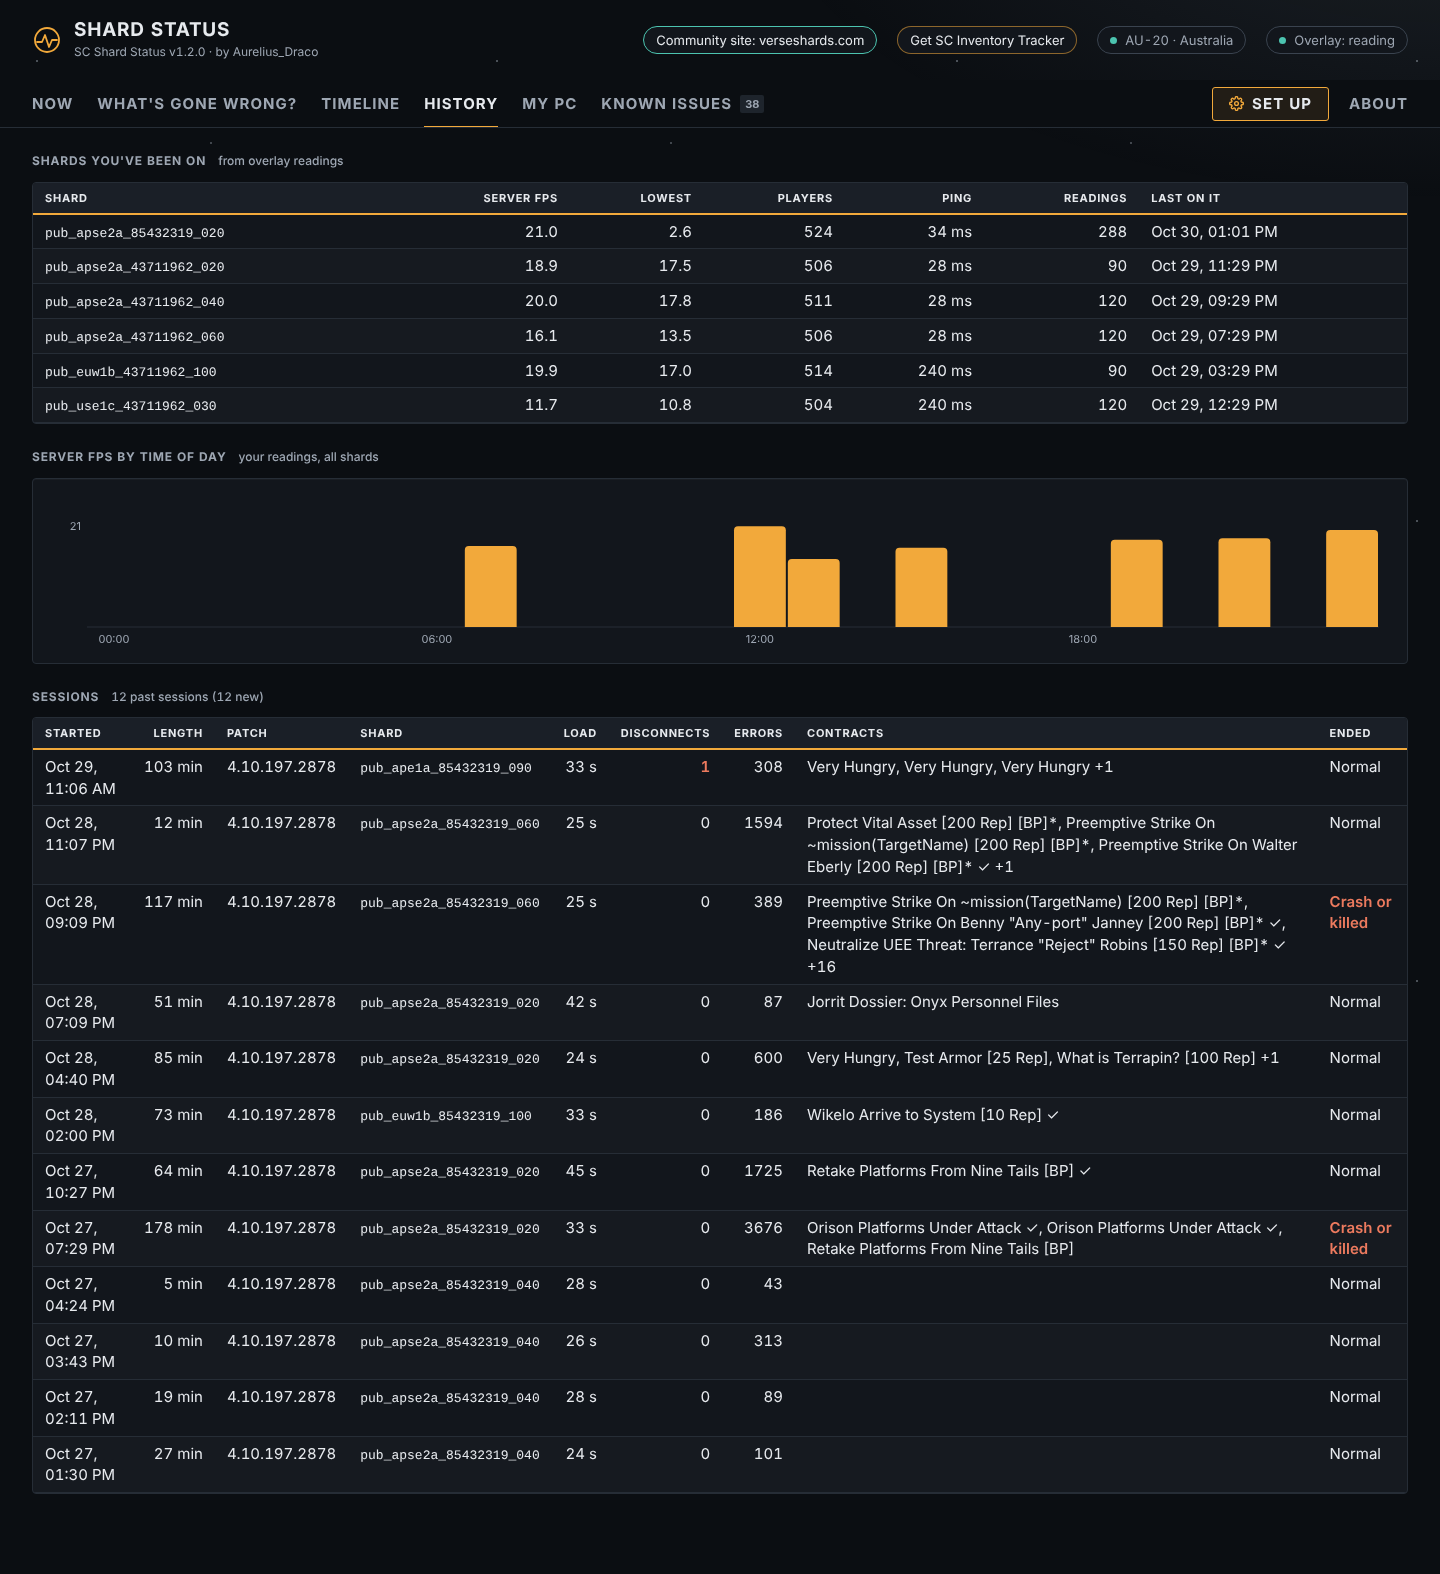
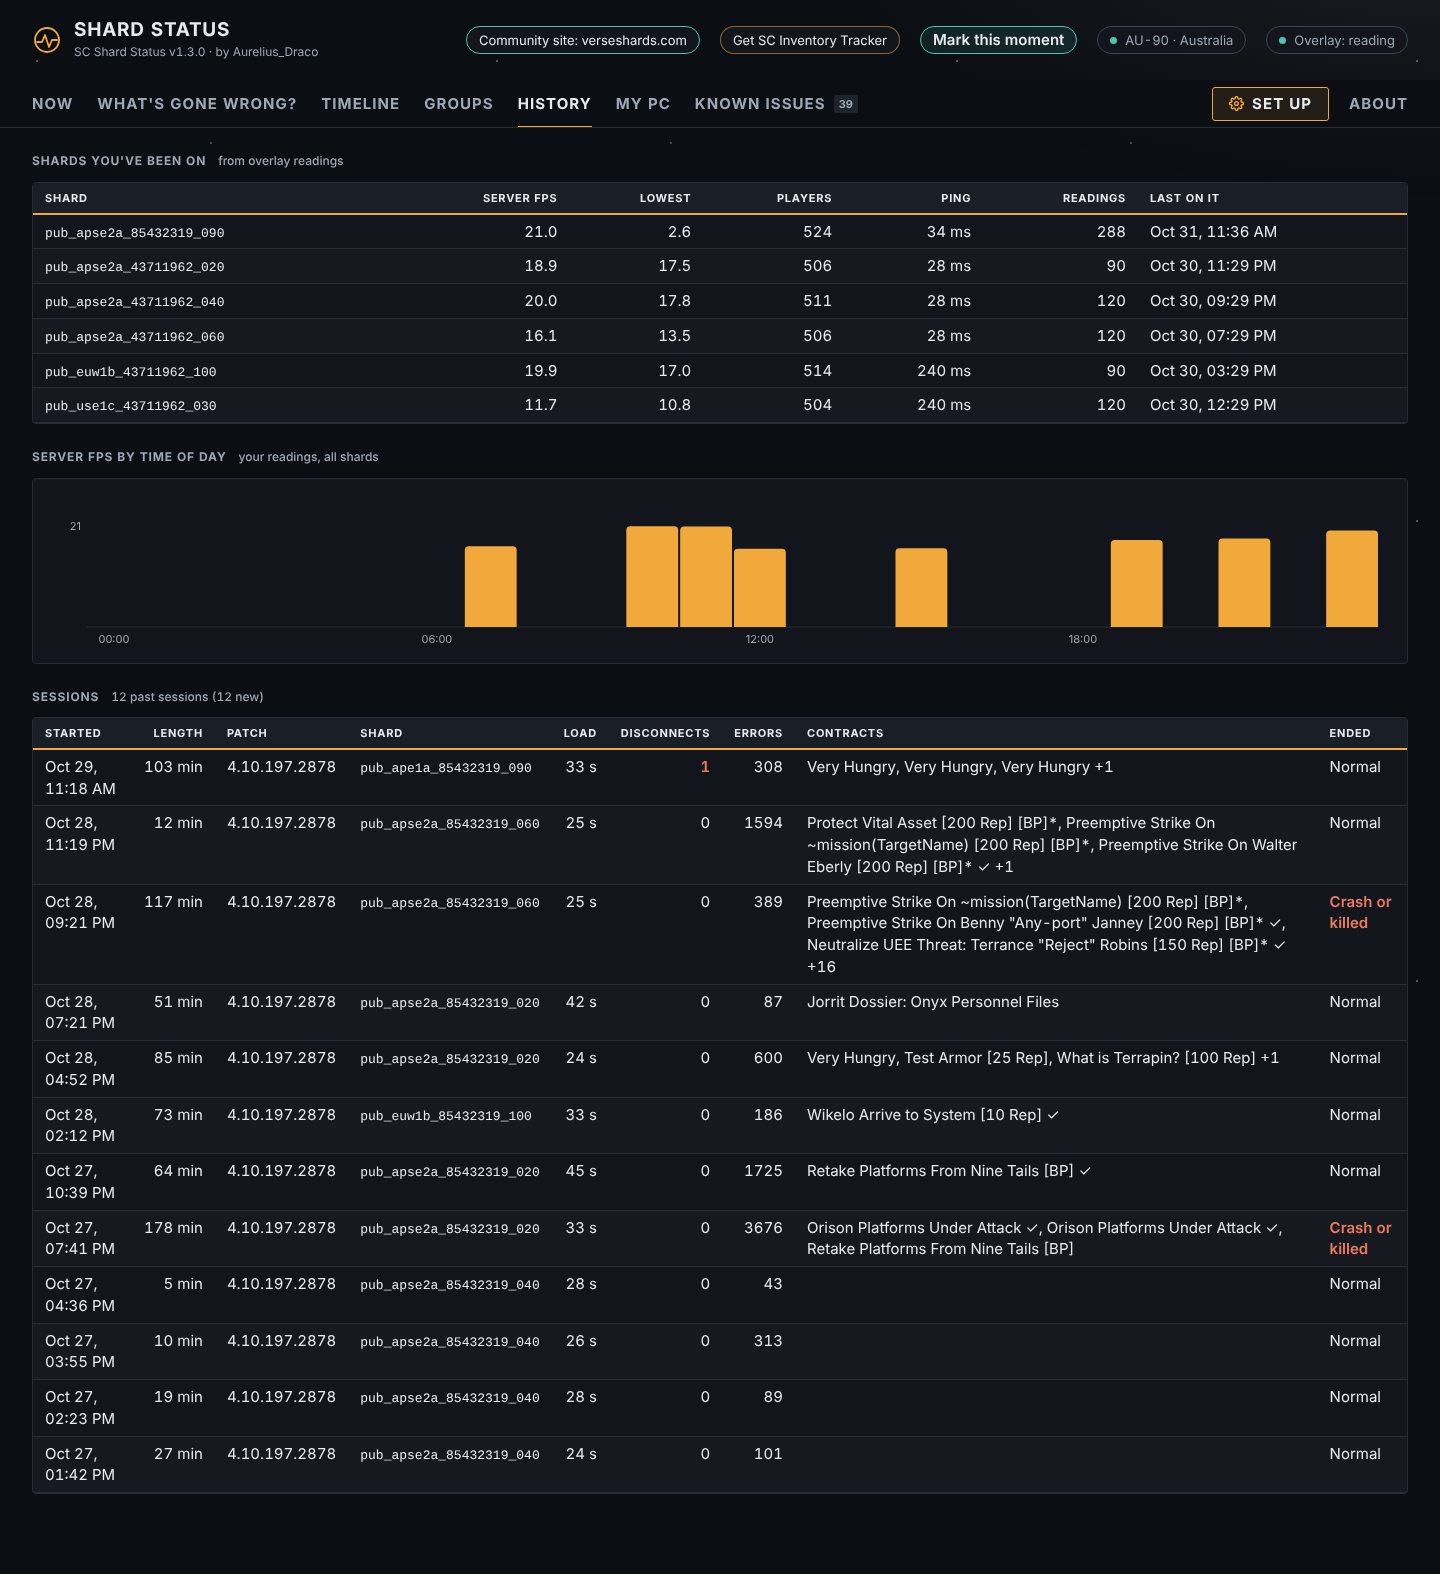
1.3.0 screenshots (Issue Council form, Groups), category for lost flight control, README gallery
Claude-Session: https://claude.ai/code/session_013FyQtGebVrWHnaiNqvQCKr

diff --git a/tools/showcase.py b/tools/showcase.py
@@ -254,8 +254,12 @@ def fake_site(holder):
             pass
 
         def do_GET(self):
-            body = holder["board"] if self.path.startswith("/api/v1/board") else \
-                {"summary": "operational", "systems": [], "issues": [], "problem": False}
+            if self.path.startswith("/api/v1/posts"):
+                body = {"open": True, "posts": [], "pirates": [], "activities": ["RSI event", "Mining", "Salvage",
+                        "Cargo hauling", "Bounty hunting", "Mercenary", "Xenothreat / event", "Just flying together"]}
+            else:
+                body = holder["board"] if self.path.startswith("/api/v1/board") else \
+                    {"summary": "operational", "systems": [], "issues": [], "problem": False}
             data = _json.dumps(body).encode()
             self.send_response(200)
             self.send_header("content-type", "application/json")
@@ -390,6 +394,21 @@ def main():
             p.wait_for_timeout(1500)
             shot(p, n, full=tab not in ("issues", "setup", "timeline"), h=1400 if tab in ("issues", "setup", "timeline") else None)
             p.close()
+        # Groups: a made-up recruiting post with two made-up players keen to join
+        import json as _json
+        app.groups.open, app.groups.activities = True, ["RSI event", "Mining", "Salvage", "Cargo hauling", "Bounty hunting"]
+        app.store.set_meta("post_keys", _json.dumps([{"id": "0a1b2c3d4e5f", "key": "0" * 32, "kind": "recruit",
+            "activity": "Mining", "expires": time.time() + 6000, "spots": 3, "shard": "AU-90", "area_name": "Hurston"}]))
+        app.groups.interest = [{"post": "0a1b2c3d4e5f", "activity": "Mining", "handle": FAKE_OTHERS[0], "note": "got a Prospector",
+                                "created": time.time() - 120},
+                               {"post": "0a1b2c3d4e5f", "activity": "Mining", "handle": FAKE_OTHERS[3], "note": None,
+                                "created": time.time() - 600}]
+        app.groups.poll_at = time.time() + 3600         # no polling the made-up post
+        p = page()
+        p.click('[data-tab="groups"]')
+        p.wait_for_timeout(1500)
+        shot(p, "14-groups", full=True)
+        p.close()
         p = page("light")
         shot(p, "11-now-light-theme", full=True)
         p.close()

diff --git a/scstatus/report.py b/scstatus/report.py
@@ -28,7 +28,9 @@ SEVERITIES = ("Polish", "Playable", "Hardly Playable", "Critical")
 CATEGORY = {"Network": "Desynchronization", "Connection": "Network", "Loading": "Loading", "Game": "Game client",
             "Vehicles": "Vehicles", "Quantum": "Quantum travel", "Transit": "Transit", "Freight elevator": "Cargo",
             "Cargo": "Cargo", "Inventory": "Inventory", "Shops": "Shops", "Services": "Services", "Audio": "Audio",
-            "Character": "Character", "Contracts": "Missions"}
+            "Character": "Character", "Contracts": "Missions", "Server": "Server performance"}
+# Where a library entry is better described by something other than its area
+CATEGORY_BY_RULE = {"vehicle-lost-control-slow-collision": "Desynchronization"}
 
 
 def _utc(ts):
@@ -188,7 +190,7 @@ def draft(finding, result, snapshot=None, location_hint=None, session=None, plac
     sections = [
         {"key": "title", "label": "Issue title", "text": title, "limit": LIMITS["title"]},
         {"key": "version", "label": "Game version", "text": version},
-        {"key": "category", "label": "Issue category (suggested)", "text": CATEGORY.get(finding.get("area"), "Other"),
+        {"key": "category", "label": "Issue category (suggested)", "text": CATEGORY_BY_RULE.get(finding.get("rule_id")) or CATEGORY.get(finding.get("area"), "Other"),
          "note": "Pick the closest match in the Issue Council's list."},
         {"key": "severity", "label": "How bad is it? (suggested)", "text": severity_for(finding), "options": SEVERITIES},
         {"key": "doing", "label": "What were you doing?", "text": doing, "note": "From your Game.log. Edit it; it starts What happened."},

diff --git a/README.md b/README.md
@@ -42,12 +42,17 @@ These are from real Game.logs with every name, ID and address swapped for made-u
 
 ![What's gone wrong](docs/screenshots/4-whats-gone-wrong.png)
 
-**Issue Council draft.** Every part has its own Copy button, so you paste each one straight into the matching box.
+**Issue Council draft.** Laid out box by box like the form, inside its limits, with a Copy button for each part.
 
 ![Issue Council draft](docs/screenshots/5-issue-council-draft.png)
 
-<details><summary>More: History, My PC, Known issues, Set up, light theme, narrow window</summary>
+**Groups.** Recruit players or look for a group from the app, and see who's keen to join.
 
+![Groups](docs/screenshots/14-groups.png)
+
+<details><summary>More: Timeline, History, My PC, Known issues, Set up, light theme, narrow window</summary>
+
+![Timeline](docs/screenshots/13-timeline.png)
 ![History](docs/screenshots/6-history.png)
 ![My PC](docs/screenshots/7-my-pc.png)
 ![Known issues](docs/screenshots/8-known-issues.png)
